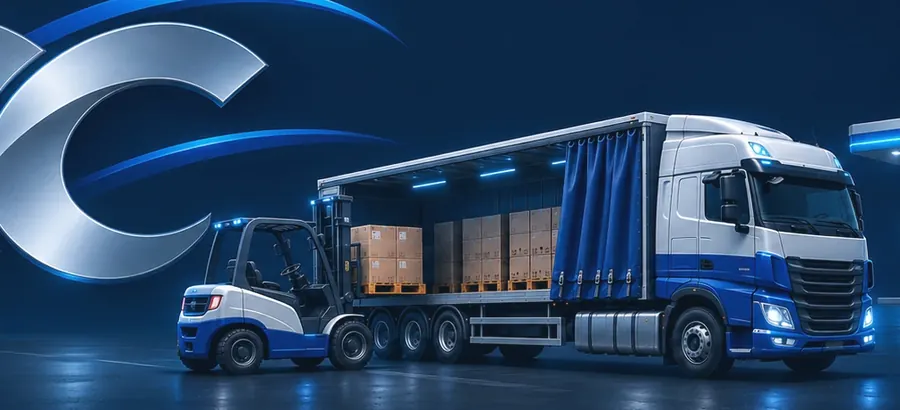
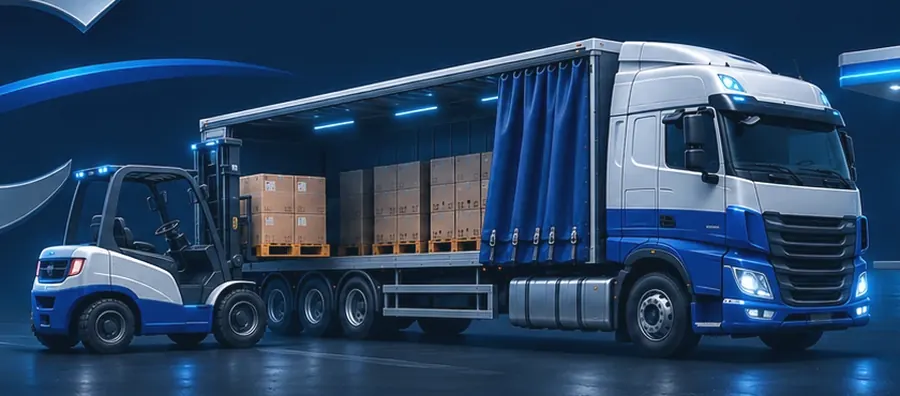
Portada en el móvil sin las CC: solo la carretilla y el camión (lo pidió Lorena)
Claude-Session: https://claude.ai/code/session_011SdsLKzTmFSpwPz2orkjvZ

diff --git a/styles.css b/styles.css
@@ -159,9 +159,9 @@ main { outline: none; }
 .hero-in { position: relative; z-index: 1; max-width: 980px; margin: 0 auto; display: grid; gap: 4px; align-items: center; }
 /* Portada (lo pidió el padre, 5/11/2026): camión de lona con carretilla, CC y gasolinera. El fondo de la imagen se ha igualado al
    azul de la web (#0B1E3C) y los bordes se difuminan con máscaras para que se funda con el degradado y los círculos del .hero.
-   En el móvil, img/portada-movil.webp (carretilla, camión y parte de las CC, ampliados); en pantallas anchas, img/portada.webp entera. */
+   En el móvil, img/portada-movil.webp (carretilla y camión, sin las CC: lo pidió Lorena); en pantallas anchas, img/portada.webp entera. */
 .hero-arte {
-  width: calc(100% + 32px); max-width: 640px; aspect-ratio: 900 / 410; margin: 0 -16px;
+  width: calc(100% + 32px); max-width: 640px; aspect-ratio: 900 / 396; margin: 0 -16px;
   justify-self: center;
   background: url(img/portada-movil.webp) center / cover no-repeat;
   -webkit-mask-image: linear-gradient(90deg, transparent, #000 10%, #000 90%, transparent), linear-gradient(180deg, transparent, #000 12%, #000 78%, transparent);
